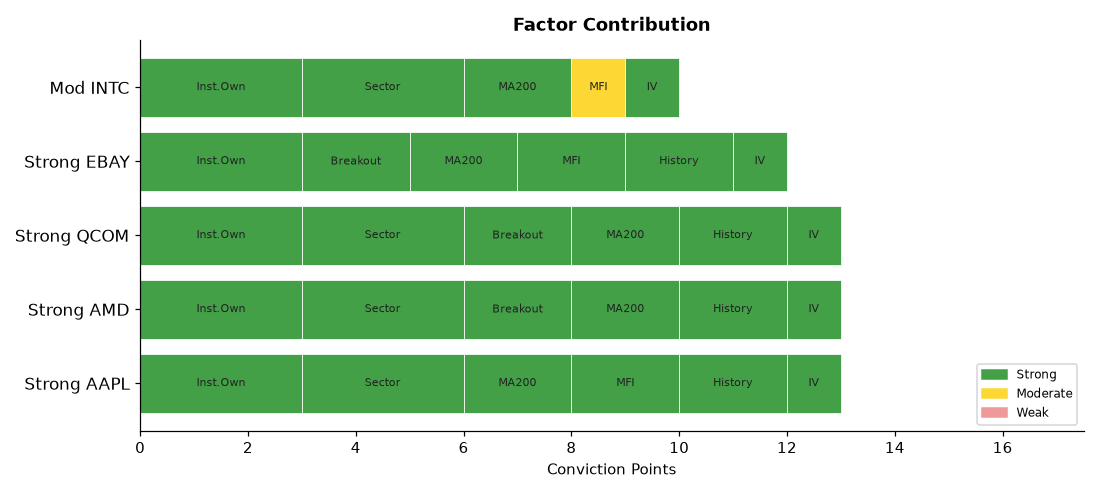
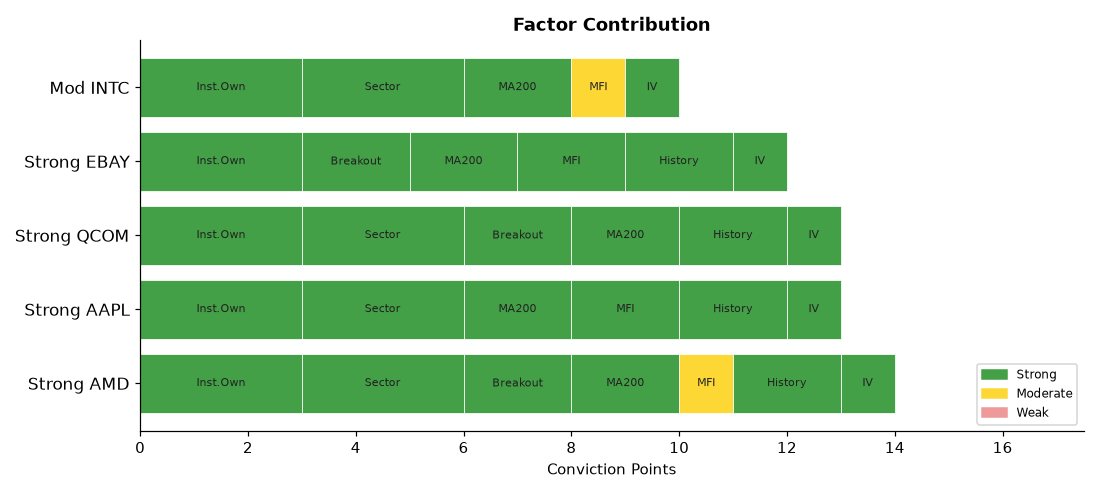
deploy: b7fadf5b06deb90e7ebb92f278722414bdd9750d

diff --git a/index.html b/index.html
@@ -4,7 +4,7 @@
   <meta charset="UTF-8">
   <meta name="viewport" content="width=device-width,initial-scale=1">
   <meta http-equiv="Cache-Control" content="no-cache,no-store,must-revalidate">
-  <title>Stock Breakout Screener — 2026-07-06 17:20</title>
+  <title>Stock Breakout Screener — 2026-07-06 19:00</title>
   <style>
     *{box-sizing:border-box;margin:0;padding:0}
     body{font-family:'Segoe UI',Arial,sans-serif;background:#f0f2f5;
@@ -34,7 +34,7 @@
 
 <div class="hdr">
   <h1>📈 Stock Breakout Screener</h1>
-  <p>Updated: 2026-07-06 17:20 UTC &nbsp;·&nbsp; Phase: Regular Market Hours &nbsp;·&nbsp;
+  <p>Updated: 2026-07-06 19:00 UTC &nbsp;·&nbsp; Phase: Regular Market Hours &nbsp;·&nbsp;
      129 stocks screened &nbsp;·&nbsp; Top 5 by conviction score</p>
 </div>
 
@@ -42,13 +42,13 @@
   <strong style="font-size:14px">Market Sentiment: 🐻 Bearish</strong>
   <div class="bar-wrap" style="margin-top:10px">
     <div style="width:3%;background:#43a047"></div>
-    <div style="width:5%;background:#fdd835"></div>
-    <div style="width:92%;background:#e53935"></div>
+    <div style="width:4%;background:#fdd835"></div>
+    <div style="width:93%;background:#e53935"></div>
   </div>
   <div style="font-size:12px;color:#555">
     🟢 Strong 3% &nbsp;
-    🟡 Moderate 5% &nbsp;
-    🔴 Weak 92%
+    🟡 Moderate 4% &nbsp;
+    🔴 Weak 93%
   </div>
 </div>
 
@@ -60,16 +60,16 @@
           <div style="display:flex;align-items:center;gap:10px;
                       flex-wrap:wrap;margin-bottom:10px">
             <span style="font-size:22px">🟢</span>
-            <span style="font-size:19px;font-weight:700">1. AAPL</span>
+            <span style="font-size:19px;font-weight:700">1. AMD</span>
             <span style="font-size:12px;color:#666">Technology</span>
             <span style="margin-left:auto;background:#1a237e;color:#fff;
                          padding:3px 12px;border-radius:12px;
                          font-size:13px;font-weight:600">
-              13/17
+              14/17
             </span>
           </div>
           <ul style="margin:0;padding-left:18px;font-size:13px;
-                     color:#333;line-height:1.8"><li style="margin:5px 0"><span style="background:#ffebee;color:#b71c1c;padding:2px 7px;border-radius:4px;font-size:11px;">❌</span> Volume: <b>0.5× average</b> — Above-average activity</li><li style="margin:5px 0"><span style="background:#ffebee;color:#b71c1c;padding:2px 7px;border-radius:4px;font-size:11px;">❌</span> Candle: close <b>$312.62</b> vs open <b>$307.68</b> (+1.6%) — regular market close</li><li style="margin:5px 0"><span style="background:#e8f5e9;color:#2e7d32;padding:2px 7px;border-radius:4px;font-size:11px;">✅</span> 200-Day MA: price <b>$312.62</b> vs MA <b>$273.88</b> — <b>✅ Above</b> long-term trend</li><li style="margin:5px 0"><span style="background:#e8f5e9;color:#2e7d32;padding:2px 7px;border-radius:4px;font-size:11px;">✅</span> Inst. ownership: <b>65.8%</b> · MFI: <b>75.0</b> · Market cap: <b>$4591.6B</b></li><li style="margin:5px 0"><span style="background:#e8f5e9;color:#2e7d32;padding:2px 7px;border-radius:4px;font-size:11px;">✅</span> Last similar breakout: <b>Jun 26, 2026</b> → <b>+10.2%</b> over 10 trading days</li></ul>
+                     color:#333;line-height:1.8"><li style="margin:5px 0"><span style="background:#ffebee;color:#b71c1c;padding:2px 7px;border-radius:4px;font-size:11px;">❌</span> Volume: <b>0.6× average</b> — Above-average activity</li><li style="margin:5px 0"><span style="background:#e8f5e9;color:#2e7d32;padding:2px 7px;border-radius:4px;font-size:11px;">✅</span> Candle: close <b>$554.64</b> vs open <b>$535.20</b> (+3.6%) — regular market close</li><li style="margin:5px 0"><span style="background:#e8f5e9;color:#2e7d32;padding:2px 7px;border-radius:4px;font-size:11px;">✅</span> 200-Day MA: price <b>$554.64</b> vs MA <b>$319.46</b> — <b>✅ Above</b> long-term trend</li><li style="margin:5px 0"><span style="background:#e8f5e9;color:#2e7d32;padding:2px 7px;border-radius:4px;font-size:11px;">✅</span> Inst. ownership: <b>72.1%</b> · MFI: <b>50.2</b> · Market cap: <b>$904.3B</b></li><li style="margin:5px 0"><span style="background:#e8f5e9;color:#2e7d32;padding:2px 7px;border-radius:4px;font-size:11px;">✅</span> Last similar breakout: <b>Apr 24, 2026</b> → <b>+30.9%</b> over 10 trading days</li></ul>
         </div>
         <div style="background:#fff;border:1px solid #ddd;border-radius:10px;
                     padding:16px 20px;margin-bottom:12px;
@@ -77,7 +77,7 @@
           <div style="display:flex;align-items:center;gap:10px;
                       flex-wrap:wrap;margin-bottom:10px">
             <span style="font-size:22px">🟢</span>
-            <span style="font-size:19px;font-weight:700">2. AMD</span>
+            <span style="font-size:19px;font-weight:700">2. AAPL</span>
             <span style="font-size:12px;color:#666">Technology</span>
             <span style="margin-left:auto;background:#1a237e;color:#fff;
                          padding:3px 12px;border-radius:12px;
@@ -86,7 +86,7 @@
             </span>
           </div>
           <ul style="margin:0;padding-left:18px;font-size:13px;
-                     color:#333;line-height:1.8"><li style="margin:5px 0"><span style="background:#ffebee;color:#b71c1c;padding:2px 7px;border-radius:4px;font-size:11px;">❌</span> Volume: <b>0.5× average</b> — Above-average activity</li><li style="margin:5px 0"><span style="background:#e8f5e9;color:#2e7d32;padding:2px 7px;border-radius:4px;font-size:11px;">✅</span> Candle: close <b>$555.53</b> vs open <b>$535.20</b> (+3.8%) — regular market close</li><li style="margin:5px 0"><span style="background:#e8f5e9;color:#2e7d32;padding:2px 7px;border-radius:4px;font-size:11px;">✅</span> 200-Day MA: price <b>$555.53</b> vs MA <b>$319.47</b> — <b>✅ Above</b> long-term trend</li><li style="margin:5px 0"><span style="background:#e8f5e9;color:#2e7d32;padding:2px 7px;border-radius:4px;font-size:11px;">✅</span> Inst. ownership: <b>72.1%</b> · MFI: <b>49.7</b> · Market cap: <b>$905.4B</b></li><li style="margin:5px 0"><span style="background:#e8f5e9;color:#2e7d32;padding:2px 7px;border-radius:4px;font-size:11px;">✅</span> Last similar breakout: <b>Apr 24, 2026</b> → <b>+30.9%</b> over 10 trading days</li></ul>
+                     color:#333;line-height:1.8"><li style="margin:5px 0"><span style="background:#ffebee;color:#b71c1c;padding:2px 7px;border-radius:4px;font-size:11px;">❌</span> Volume: <b>0.6× average</b> — Above-average activity</li><li style="margin:5px 0"><span style="background:#ffebee;color:#b71c1c;padding:2px 7px;border-radius:4px;font-size:11px;">❌</span> Candle: close <b>$313.22</b> vs open <b>$307.68</b> (+1.8%) — regular market close</li><li style="margin:5px 0"><span style="background:#e8f5e9;color:#2e7d32;padding:2px 7px;border-radius:4px;font-size:11px;">✅</span> 200-Day MA: price <b>$313.22</b> vs MA <b>$273.88</b> — <b>✅ Above</b> long-term trend</li><li style="margin:5px 0"><span style="background:#e8f5e9;color:#2e7d32;padding:2px 7px;border-radius:4px;font-size:11px;">✅</span> Inst. ownership: <b>65.8%</b> · MFI: <b>75.2</b> · Market cap: <b>$4599.8B</b></li><li style="margin:5px 0"><span style="background:#e8f5e9;color:#2e7d32;padding:2px 7px;border-radius:4px;font-size:11px;">✅</span> Last similar breakout: <b>Jun 26, 2026</b> → <b>+10.4%</b> over 10 trading days</li></ul>
         </div>
         <div style="background:#fff;border:1px solid #ddd;border-radius:10px;
                     padding:16px 20px;margin-bottom:12px;
@@ -103,7 +103,7 @@
             </span>
           </div>
           <ul style="margin:0;padding-left:18px;font-size:13px;
-                     color:#333;line-height:1.8"><li style="margin:5px 0"><span style="background:#ffebee;color:#b71c1c;padding:2px 7px;border-radius:4px;font-size:11px;">❌</span> Volume: <b>0.4× average</b> — Above-average activity</li><li style="margin:5px 0"><span style="background:#e8f5e9;color:#2e7d32;padding:2px 7px;border-radius:4px;font-size:11px;">✅</span> Candle: close <b>$187.32</b> vs open <b>$178.00</b> (+5.2%) — regular market close</li><li style="margin:5px 0"><span style="background:#e8f5e9;color:#2e7d32;padding:2px 7px;border-radius:4px;font-size:11px;">✅</span> 200-Day MA: price <b>$187.32</b> vs MA <b>$166.09</b> — <b>✅ Above</b> long-term trend</li><li style="margin:5px 0"><span style="background:#e8f5e9;color:#2e7d32;padding:2px 7px;border-radius:4px;font-size:11px;">✅</span> Inst. ownership: <b>84.7%</b> · MFI: <b>39.7</b> · Market cap: <b>$197.4B</b></li><li style="margin:5px 0"><span style="background:#e8f5e9;color:#2e7d32;padding:2px 7px;border-radius:4px;font-size:11px;">✅</span> Last similar breakout: <b>May 07, 2026</b> → <b>+5.4%</b> over 10 trading days</li></ul>
+                     color:#333;line-height:1.8"><li style="margin:5px 0"><span style="background:#ffebee;color:#b71c1c;padding:2px 7px;border-radius:4px;font-size:11px;">❌</span> Volume: <b>0.5× average</b> — Above-average activity</li><li style="margin:5px 0"><span style="background:#e8f5e9;color:#2e7d32;padding:2px 7px;border-radius:4px;font-size:11px;">✅</span> Candle: close <b>$186.28</b> vs open <b>$178.00</b> (+4.7%) — regular market close</li><li style="margin:5px 0"><span style="background:#e8f5e9;color:#2e7d32;padding:2px 7px;border-radius:4px;font-size:11px;">✅</span> 200-Day MA: price <b>$186.28</b> vs MA <b>$166.08</b> — <b>✅ Above</b> long-term trend</li><li style="margin:5px 0"><span style="background:#e8f5e9;color:#2e7d32;padding:2px 7px;border-radius:4px;font-size:11px;">✅</span> Inst. ownership: <b>84.7%</b> · MFI: <b>39.9</b> · Market cap: <b>$196.3B</b></li><li style="margin:5px 0"><span style="background:#e8f5e9;color:#2e7d32;padding:2px 7px;border-radius:4px;font-size:11px;">✅</span> Last similar breakout: <b>May 07, 2026</b> → <b>+5.4%</b> over 10 trading days</li></ul>
         </div>
         <div style="background:#fff;border:1px solid #ddd;border-radius:10px;
                     padding:16px 20px;margin-bottom:12px;
@@ -120,7 +120,7 @@
             </span>
           </div>
           <ul style="margin:0;padding-left:18px;font-size:13px;
-                     color:#333;line-height:1.8"><li style="margin:5px 0"><span style="background:#ffebee;color:#b71c1c;padding:2px 7px;border-radius:4px;font-size:11px;">❌</span> Volume: <b>0.4× average</b> — Above-average activity</li><li style="margin:5px 0"><span style="background:#e8f5e9;color:#2e7d32;padding:2px 7px;border-radius:4px;font-size:11px;">✅</span> Candle: close <b>$114.84</b> vs open <b>$111.32</b> (+3.2%) — regular market close</li><li style="margin:5px 0"><span style="background:#e8f5e9;color:#2e7d32;padding:2px 7px;border-radius:4px;font-size:11px;">✅</span> 200-Day MA: price <b>$114.84</b> vs MA <b>$98.54</b> — <b>✅ Above</b> long-term trend</li><li style="margin:5px 0"><span style="background:#e8f5e9;color:#2e7d32;padding:2px 7px;border-radius:4px;font-size:11px;">✅</span> Inst. ownership: <b>96.1%</b> · MFI: <b>67.1</b> · Market cap: <b>$50.1B</b></li><li style="margin:5px 0"><span style="background:#e8f5e9;color:#2e7d32;padding:2px 7px;border-radius:4px;font-size:11px;">✅</span> Last similar breakout: <b>Apr 30, 2026</b> → <b>+9.4%</b> over 10 trading days</li></ul>
+                     color:#333;line-height:1.8"><li style="margin:5px 0"><span style="background:#ffebee;color:#b71c1c;padding:2px 7px;border-radius:4px;font-size:11px;">❌</span> Volume: <b>0.4× average</b> — Above-average activity</li><li style="margin:5px 0"><span style="background:#e8f5e9;color:#2e7d32;padding:2px 7px;border-radius:4px;font-size:11px;">✅</span> Candle: close <b>$114.84</b> vs open <b>$111.32</b> (+3.2%) — regular market close</li><li style="margin:5px 0"><span style="background:#e8f5e9;color:#2e7d32;padding:2px 7px;border-radius:4px;font-size:11px;">✅</span> 200-Day MA: price <b>$114.84</b> vs MA <b>$98.54</b> — <b>✅ Above</b> long-term trend</li><li style="margin:5px 0"><span style="background:#e8f5e9;color:#2e7d32;padding:2px 7px;border-radius:4px;font-size:11px;">✅</span> Inst. ownership: <b>96.1%</b> · MFI: <b>66.7</b> · Market cap: <b>$50.4B</b></li><li style="margin:5px 0"><span style="background:#e8f5e9;color:#2e7d32;padding:2px 7px;border-radius:4px;font-size:11px;">✅</span> Last similar breakout: <b>Apr 30, 2026</b> → <b>+9.4%</b> over 10 trading days</li></ul>
         </div>
         <div style="background:#fff;border:1px solid #ddd;border-radius:10px;
                     padding:16px 20px;margin-bottom:12px;
@@ -137,7 +137,7 @@
             </span>
           </div>
           <ul style="margin:0;padding-left:18px;font-size:13px;
-                     color:#333;line-height:1.8"><li style="margin:5px 0"><span style="background:#ffebee;color:#b71c1c;padding:2px 7px;border-radius:4px;font-size:11px;">❌</span> Volume: <b>0.4× average</b> — Above-average activity</li><li style="margin:5px 0"><span style="background:#ffebee;color:#b71c1c;padding:2px 7px;border-radius:4px;font-size:11px;">❌</span> Candle: close <b>$124.06</b> vs open <b>$122.57</b> (+1.2%) — regular market close</li><li style="margin:5px 0"><span style="background:#e8f5e9;color:#2e7d32;padding:2px 7px;border-radius:4px;font-size:11px;">✅</span> 200-Day MA: price <b>$124.06</b> vs MA <b>$75.47</b> — <b>✅ Above</b> long-term trend</li><li style="margin:5px 0"><span style="background:#e8f5e9;color:#2e7d32;padding:2px 7px;border-radius:4px;font-size:11px;">✅</span> Inst. ownership: <b>64.0%</b> · MFI: <b>53.3</b> · Market cap: <b>$623.3B</b></li></ul>
+                     color:#333;line-height:1.8"><li style="margin:5px 0"><span style="background:#ffebee;color:#b71c1c;padding:2px 7px;border-radius:4px;font-size:11px;">❌</span> Volume: <b>0.5× average</b> — Above-average activity</li><li style="margin:5px 0"><span style="background:#ffebee;color:#b71c1c;padding:2px 7px;border-radius:4px;font-size:11px;">❌</span> Candle: close <b>$122.58</b> vs open <b>$122.57</b> (+0.0%) — regular market close</li><li style="margin:5px 0"><span style="background:#e8f5e9;color:#2e7d32;padding:2px 7px;border-radius:4px;font-size:11px;">✅</span> 200-Day MA: price <b>$122.58</b> vs MA <b>$75.46</b> — <b>✅ Above</b> long-term trend</li><li style="margin:5px 0"><span style="background:#e8f5e9;color:#2e7d32;padding:2px 7px;border-radius:4px;font-size:11px;">✅</span> Inst. ownership: <b>64.0%</b> · MFI: <b>53.6</b> · Market cap: <b>$615.7B</b></li></ul>
         </div>
 
 
@@ -168,54 +168,54 @@
   
         <tr>
           <td style="font-weight:700;text-align:left;padding-left:10px">
+            🟢 AMD</td>
+          <td style="background:#ffcdd2">0.6×</td>
+          <td style="background:#c8e6c9">+3.6%</td>
+          <td style="background:#c8e6c9">
+            ▲ Above</td>
+          <td style="background:#c8e6c9">
+            72.1%</td>
+          <td style="background:#fff9c4">
+            50.2</td>
+          <td style="background:#c8e6c9">Technology</td>
+          <td style="background:#c8e6c9">
+            188.5%</td>
+          <td style="background:#c8e6c9">
+            +30.9%</td>
+          <td style="font-weight:800;font-size:15px">14/17</td>
+        </tr>
+        <tr>
+          <td style="font-weight:700;text-align:left;padding-left:10px">
             🟢 AAPL</td>
-          <td style="background:#ffcdd2">0.5×</td>
-          <td style="background:#ffcdd2">+1.6%</td>
+          <td style="background:#ffcdd2">0.6×</td>
+          <td style="background:#ffcdd2">+1.8%</td>
           <td style="background:#c8e6c9">
             ▲ Above</td>
           <td style="background:#c8e6c9">
             65.8%</td>
           <td style="background:#c8e6c9">
-            75.0</td>
+            75.2</td>
           <td style="background:#c8e6c9">Technology</td>
           <td style="background:#c8e6c9">
-            116.3%</td>
+            109.9%</td>
           <td style="background:#c8e6c9">
-            +10.2%</td>
-          <td style="font-weight:800;font-size:15px">13/17</td>
-        </tr>
-        <tr>
-          <td style="font-weight:700;text-align:left;padding-left:10px">
-            🟢 AMD</td>
-          <td style="background:#ffcdd2">0.5×</td>
-          <td style="background:#c8e6c9">+3.8%</td>
-          <td style="background:#c8e6c9">
-            ▲ Above</td>
-          <td style="background:#c8e6c9">
-            72.1%</td>
-          <td style="background:#ffcdd2">
-            49.7</td>
-          <td style="background:#c8e6c9">Technology</td>
-          <td style="background:#c8e6c9">
-            238.3%</td>
-          <td style="background:#c8e6c9">
-            +30.9%</td>
+            +10.4%</td>
           <td style="font-weight:800;font-size:15px">13/17</td>
         </tr>
         <tr>
           <td style="font-weight:700;text-align:left;padding-left:10px">
             🟢 QCOM</td>
-          <td style="background:#ffcdd2">0.4×</td>
-          <td style="background:#c8e6c9">+5.2%</td>
+          <td style="background:#ffcdd2">0.5×</td>
+          <td style="background:#c8e6c9">+4.7%</td>
           <td style="background:#c8e6c9">
             ▲ Above</td>
           <td style="background:#c8e6c9">
             84.7%</td>
           <td style="background:#ffcdd2">
-            39.7</td>
+            39.9</td>
           <td style="background:#c8e6c9">Technology</td>
           <td style="background:#c8e6c9">
-            114.1%</td>
+            110.4%</td>
           <td style="background:#c8e6c9">
             +5.4%</td>
           <td style="font-weight:800;font-size:15px">13/17</td>
@@ -230,10 +230,10 @@
           <td style="background:#c8e6c9">
             96.1%</td>
           <td style="background:#c8e6c9">
-            67.1</td>
+            66.7</td>
           <td style="background:#ffcdd2">Consumer Disc</td>
           <td style="background:#c8e6c9">
-            69.8%</td>
+            64.5%</td>
           <td style="background:#c8e6c9">
             +9.4%</td>
           <td style="font-weight:800;font-size:15px">12/17</td>
@@ -241,17 +241,17 @@
         <tr>
           <td style="font-weight:700;text-align:left;padding-left:10px">
             🟡 INTC</td>
-          <td style="background:#ffcdd2">0.4×</td>
-          <td style="background:#ffcdd2">+1.2%</td>
+          <td style="background:#ffcdd2">0.5×</td>
+          <td style="background:#ffcdd2">+0.0%</td>
           <td style="background:#c8e6c9">
             ▲ Above</td>
           <td style="background:#c8e6c9">
             64.0%</td>
           <td style="background:#fff9c4">
-            53.3</td>
+            53.6</td>
           <td style="background:#c8e6c9">Technology</td>
           <td style="background:#c8e6c9">
-            114.7%</td>
+            114.6%</td>
           <td style="background:#ffcdd2">
             N/A</td>
           <td style="font-weight:800;font-size:15px">10/17</td>
@@ -278,57 +278,57 @@
         <tr>
           <td style="text-align:left;padding-left:10px;font-weight:600">
             #1 Technology</td>
-          <td style="background:#e8f5e9;color:#2e7d32;font-weight:700">+2.06%</td>
+          <td style="background:#e8f5e9;color:#2e7d32;font-weight:700">+1.87%</td>
         </tr>
         <tr>
           <td style="text-align:left;padding-left:10px;font-weight:600">
             #2 Industrials</td>
-          <td style="background:#e8f5e9;color:#2e7d32;font-weight:700">+0.83%</td>
+          <td style="background:#e8f5e9;color:#2e7d32;font-weight:700">+0.98%</td>
         </tr>
         <tr>
           <td style="text-align:left;padding-left:10px;font-weight:600">
             #3 Financials</td>
-          <td style="background:#e8f5e9;color:#2e7d32;font-weight:700">+0.72%</td>
+          <td style="background:#e8f5e9;color:#2e7d32;font-weight:700">+0.83%</td>
         </tr>
         <tr>
           <td style="text-align:left;padding-left:10px;font-weight:600">
             #4 Consumer Disc</td>
-          <td style="background:#e8f5e9;color:#2e7d32;font-weight:700">+0.56%</td>
+          <td style="background:#e8f5e9;color:#2e7d32;font-weight:700">+0.78%</td>
         </tr>
         <tr>
           <td style="text-align:left;padding-left:10px;font-weight:600">
             #5 Comm. Services</td>
-          <td style="background:#e8f5e9;color:#2e7d32;font-weight:700">+0.34%</td>
+          <td style="background:#e8f5e9;color:#2e7d32;font-weight:700">+0.57%</td>
         </tr>
         <tr>
           <td style="text-align:left;padding-left:10px;font-weight:600">
             #6 Energy</td>
-          <td style="background:#ffebee;color:#c62828;font-weight:700">-0.04%</td>
+          <td style="background:#e8f5e9;color:#2e7d32;font-weight:700">+0.03%</td>
         </tr>
         <tr>
           <td style="text-align:left;padding-left:10px;font-weight:600">
             #7 Materials</td>
-          <td style="background:#ffebee;color:#c62828;font-weight:700">-0.74%</td>
+          <td style="background:#ffebee;color:#c62828;font-weight:700">-0.16%</td>
         </tr>
         <tr>
           <td style="text-align:left;padding-left:10px;font-weight:600">
-            #8 Healthcare</td>
-          <td style="background:#ffebee;color:#c62828;font-weight:700">-1.00%</td>
+            #8 Utilities</td>
+          <td style="background:#ffebee;color:#c62828;font-weight:700">-0.78%</td>
         </tr>
         <tr>
           <td style="text-align:left;padding-left:10px;font-weight:600">
             #9 Real Estate</td>
-          <td style="background:#ffebee;color:#c62828;font-weight:700">-1.00%</td>
+          <td style="background:#ffebee;color:#c62828;font-weight:700">-0.87%</td>
         </tr>
         <tr>
           <td style="text-align:left;padding-left:10px;font-weight:600">
-            #10 Utilities</td>
-          <td style="background:#ffebee;color:#c62828;font-weight:700">-1.02%</td>
+            #10 Healthcare</td>
+          <td style="background:#ffebee;color:#c62828;font-weight:700">-0.93%</td>
         </tr>
         <tr>
           <td style="text-align:left;padding-left:10px;font-weight:600">
             #11 Consumer Stpl</td>
-          <td style="background:#ffebee;color:#c62828;font-weight:700">-1.42%</td>
+          <td style="background:#ffebee;color:#c62828;font-weight:700">-1.05%</td>
         </tr>
     </table>
   </div>
@@ -367,7 +367,7 @@
         <li><b>Scoring weights:</b>
             Inst.Own(3) · Sector(3) · Volume(2) · Breakout(2) ·
             MA200(2) · MFI(2) · History(2) · IV(1) = 17pts max</li>
-        <li><b>Run time:</b> 2026-07-06 17:20 UTC — Market phase: Regular Market Hours</li>
+        <li><b>Run time:</b> 2026-07-06 19:00 UTC — Market phase: Regular Market Hours</li>
       </ul>
     </div>
 
